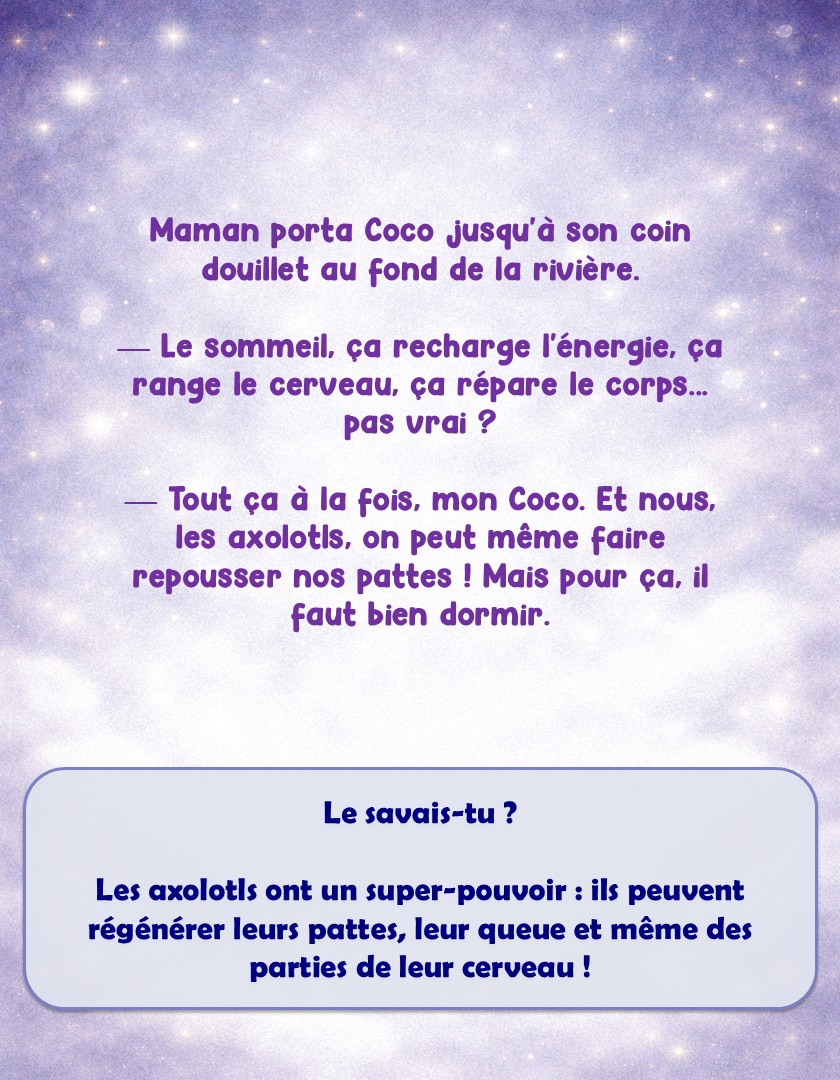
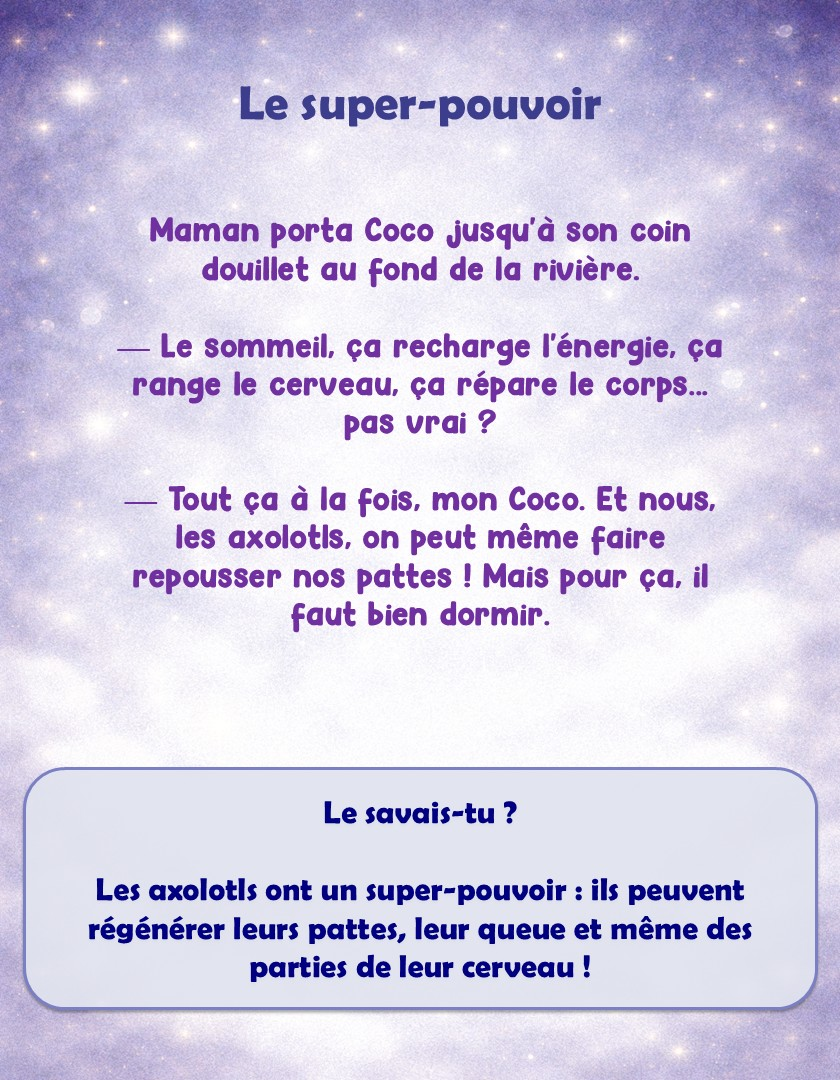
Update flipbook: 35 pages (added title pages + moved parents to end)
- 2 new slides (Diapositive34, 35): back image + Cher Parent
- Updated pages with new titles and text corrections
- Flipbook page count: 33 → 35

Changed region(s): [[0.2786, 0.0611, 0.7119, 0.1222]]

diff --git a/sleep-book/read/index.html b/sleep-book/read/index.html
@@ -212,7 +212,7 @@
     <div class="toolbar">
       <a href="/sleep-book/" style="color:#fff;text-decoration:none;opacity:.7;">&larr; Retour</a>
       <span class="title">Coco ne dort pas ce soir !</span>
-      <span class="page-info" id="pageInfo">1 / 33</span>
+      <span class="page-info" id="pageInfo">1 / 35</span>
       <button onclick="toggleFullscreen()">&#x26F6; Plein &eacute;cran</button>
     </div>
 
@@ -243,7 +243,7 @@
     /* ===== Book pages ===== */
     var IMG = '/sleep-book/Coco-ne-dort-pas-ce-soir-FR-8.5x11-spreads-V5/';
     var bookPages = [];
-    for(var i = 1; i <= 33; i++){
+    for(var i = 1; i <= 35; i++){
       bookPages.push({type:'illust', img: IMG+'Diapositive'+i+'.JPG'});
     }
 
